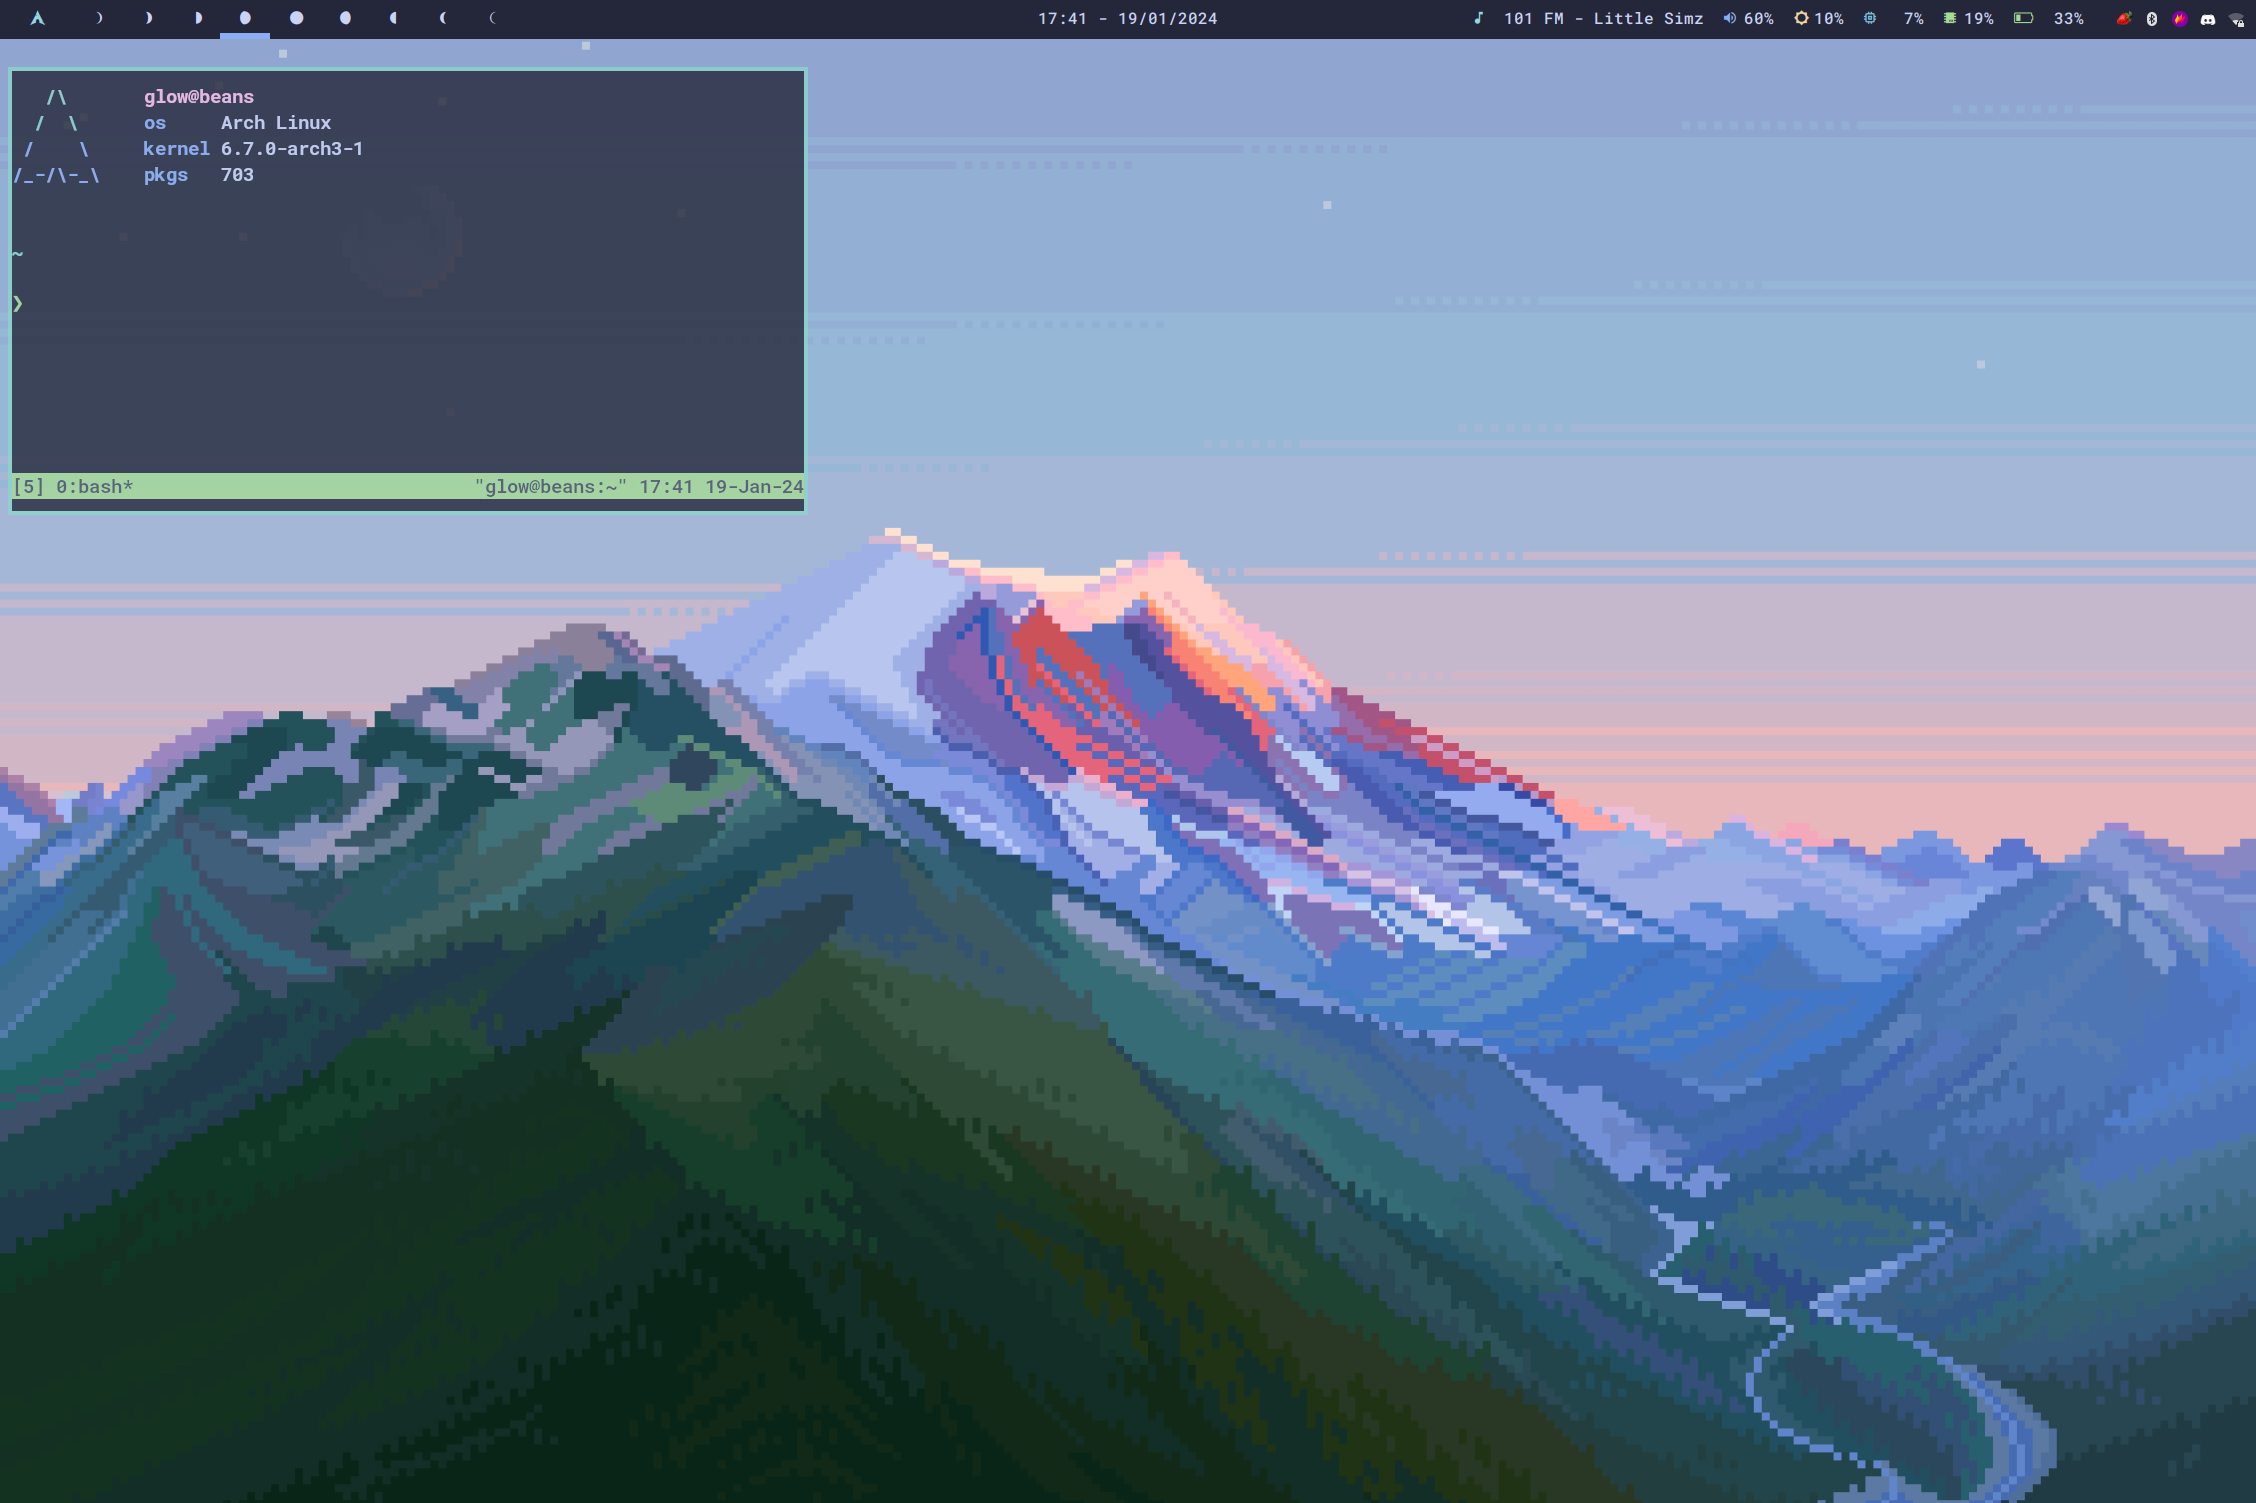
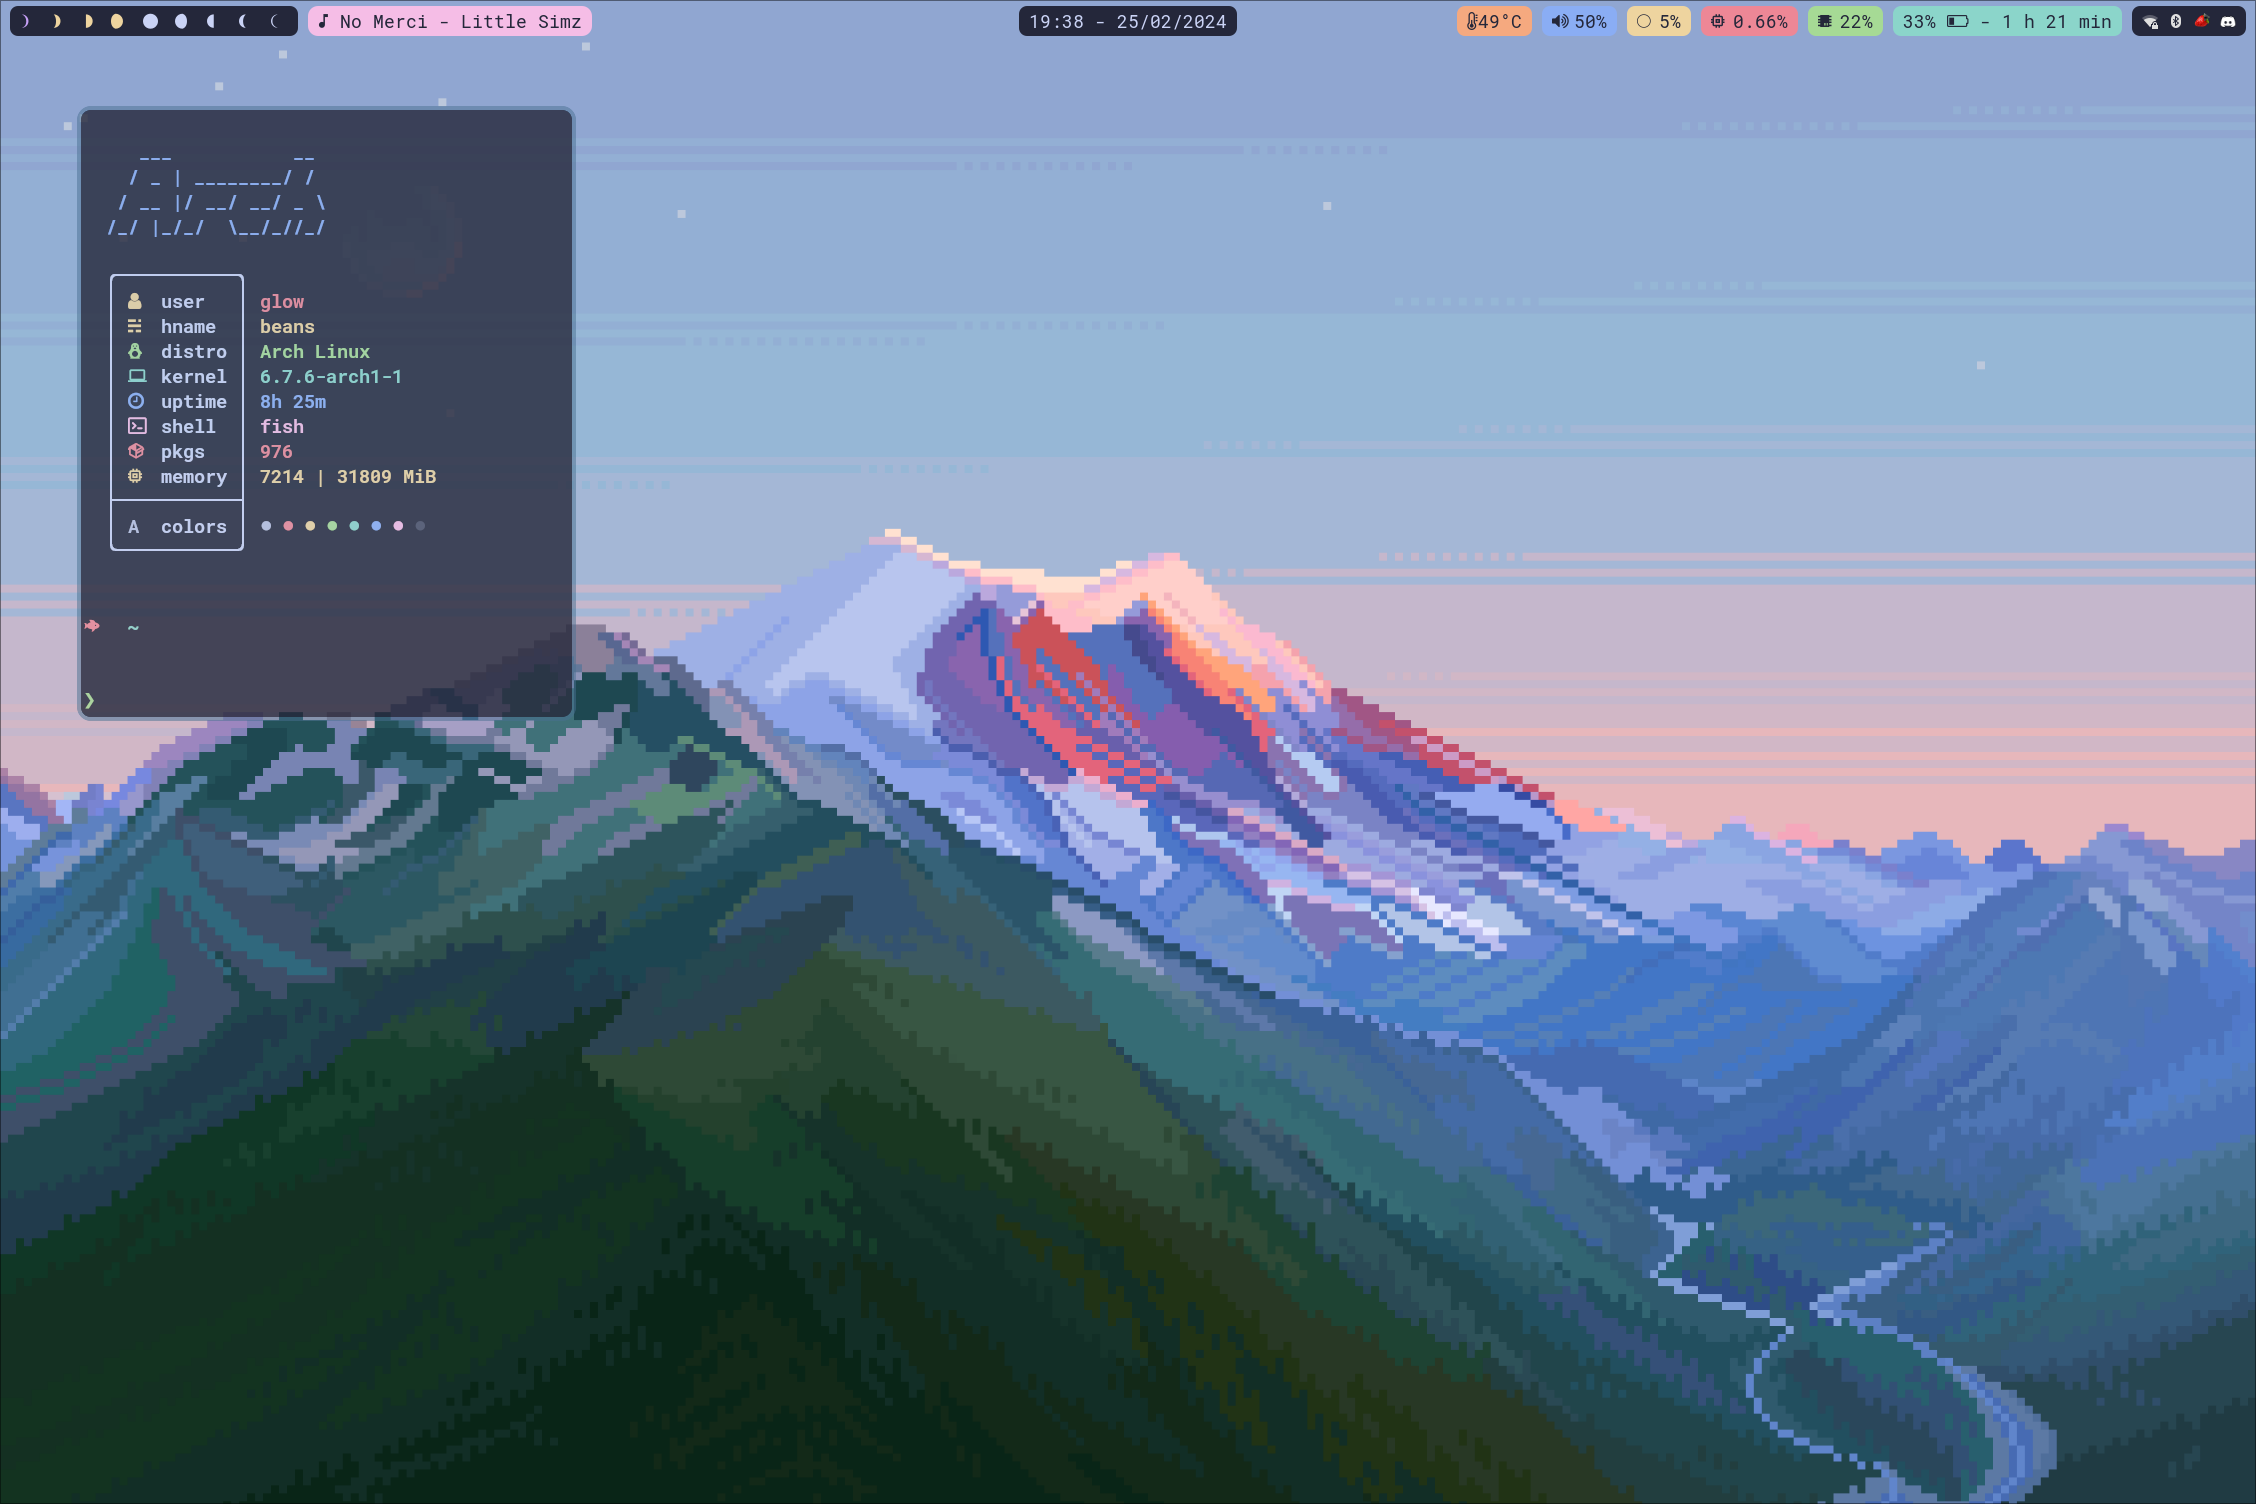
updated topster & rice, updated music interests

Changed region(s): [[0.0, 0.0, 1.0, 0.4897]]

diff --git a/interests.html b/interests.html
@@ -36,12 +36,15 @@ Little Simz
 Sometimes I Might Be Introvert
 <br><br>
 <b>Song(s):</b><br>
-<ul> <!-- aro flag teehee -->
+<ul> 
     <li>I Love You I Hate You (Little Simz)</li>
-    <li>Auntie Diaries (Kendrick Lamar)</li>
     <li>Meat Grinder (Madvillain)</li>
     <li>Contact (Daft Punk)</li>
     <li>Dance Yrself Clean (LCD Soundsystem)</li>
+    <li>Venom (Little Simz)</li>
+    <li>Home (LCD Soundsystem)</li>
+    <li>i (Kendrick Lamar)</li>
+    <li>DUCKWORTH.</li>
 </ul>
 <br><br>
 I'm also getting into vinyl so you can look at my <a href="https://www.discogs.com/user/gloww/collection">discogs</a> if you wanna judge me more
@@ -54,6 +57,7 @@ Again go look at <a href="https://steamcommunity.com/id/pissbaby123/">steam</a> 
     <li>F:NV</li>
     <li>Gran Turismo 7 (its a terrible game but i love it)</li>
     <li>Breath Of The Wild</li>
+    <li>SUPERHOT</li>
 </ul> 
 <br><br>
 <h2>other assorted media stuff</h2>
@@ -66,6 +70,6 @@ Again go look at <a href="https://steamcommunity.com/id/pissbaby123/">steam</a> 
 <h2>Nerd stuff</h2> 
 We do a smidge of being a linux nerd :3
 <br><br>
-Currently on arch with bspwm (AUR my beloved), you can look at the <a href="https://github.com/gloww12/dotfiles">dotfiles</a> if you're that kinda nerd.
+Currently on arch with hyprland (AUR my beloved), I think my dotfiles are private rn but i might make a public one later for stuff if i get bored enough.
 <img src=rice.png>
 </body>

diff --git a/index.html b/index.html
@@ -28,7 +28,7 @@ No clue why I bothered to make this but hey hi welcome to my little website
 <div class="flex">
     <div>
         <h2>me woah</h2>
-        Im glow, gender is having a moment (probably trans but wip) and i probably havent updated this in ages so just ask c: <br><br>
+        Im glow, gender is having a moment (probably trans but AAA) and i probably havent updated this in ages so just ask c: <br><br>
         Currently doing uni things and stuffs so I dont have much time for other projects :(
     </div>
     <img id="goober" src="goober.jpg">
